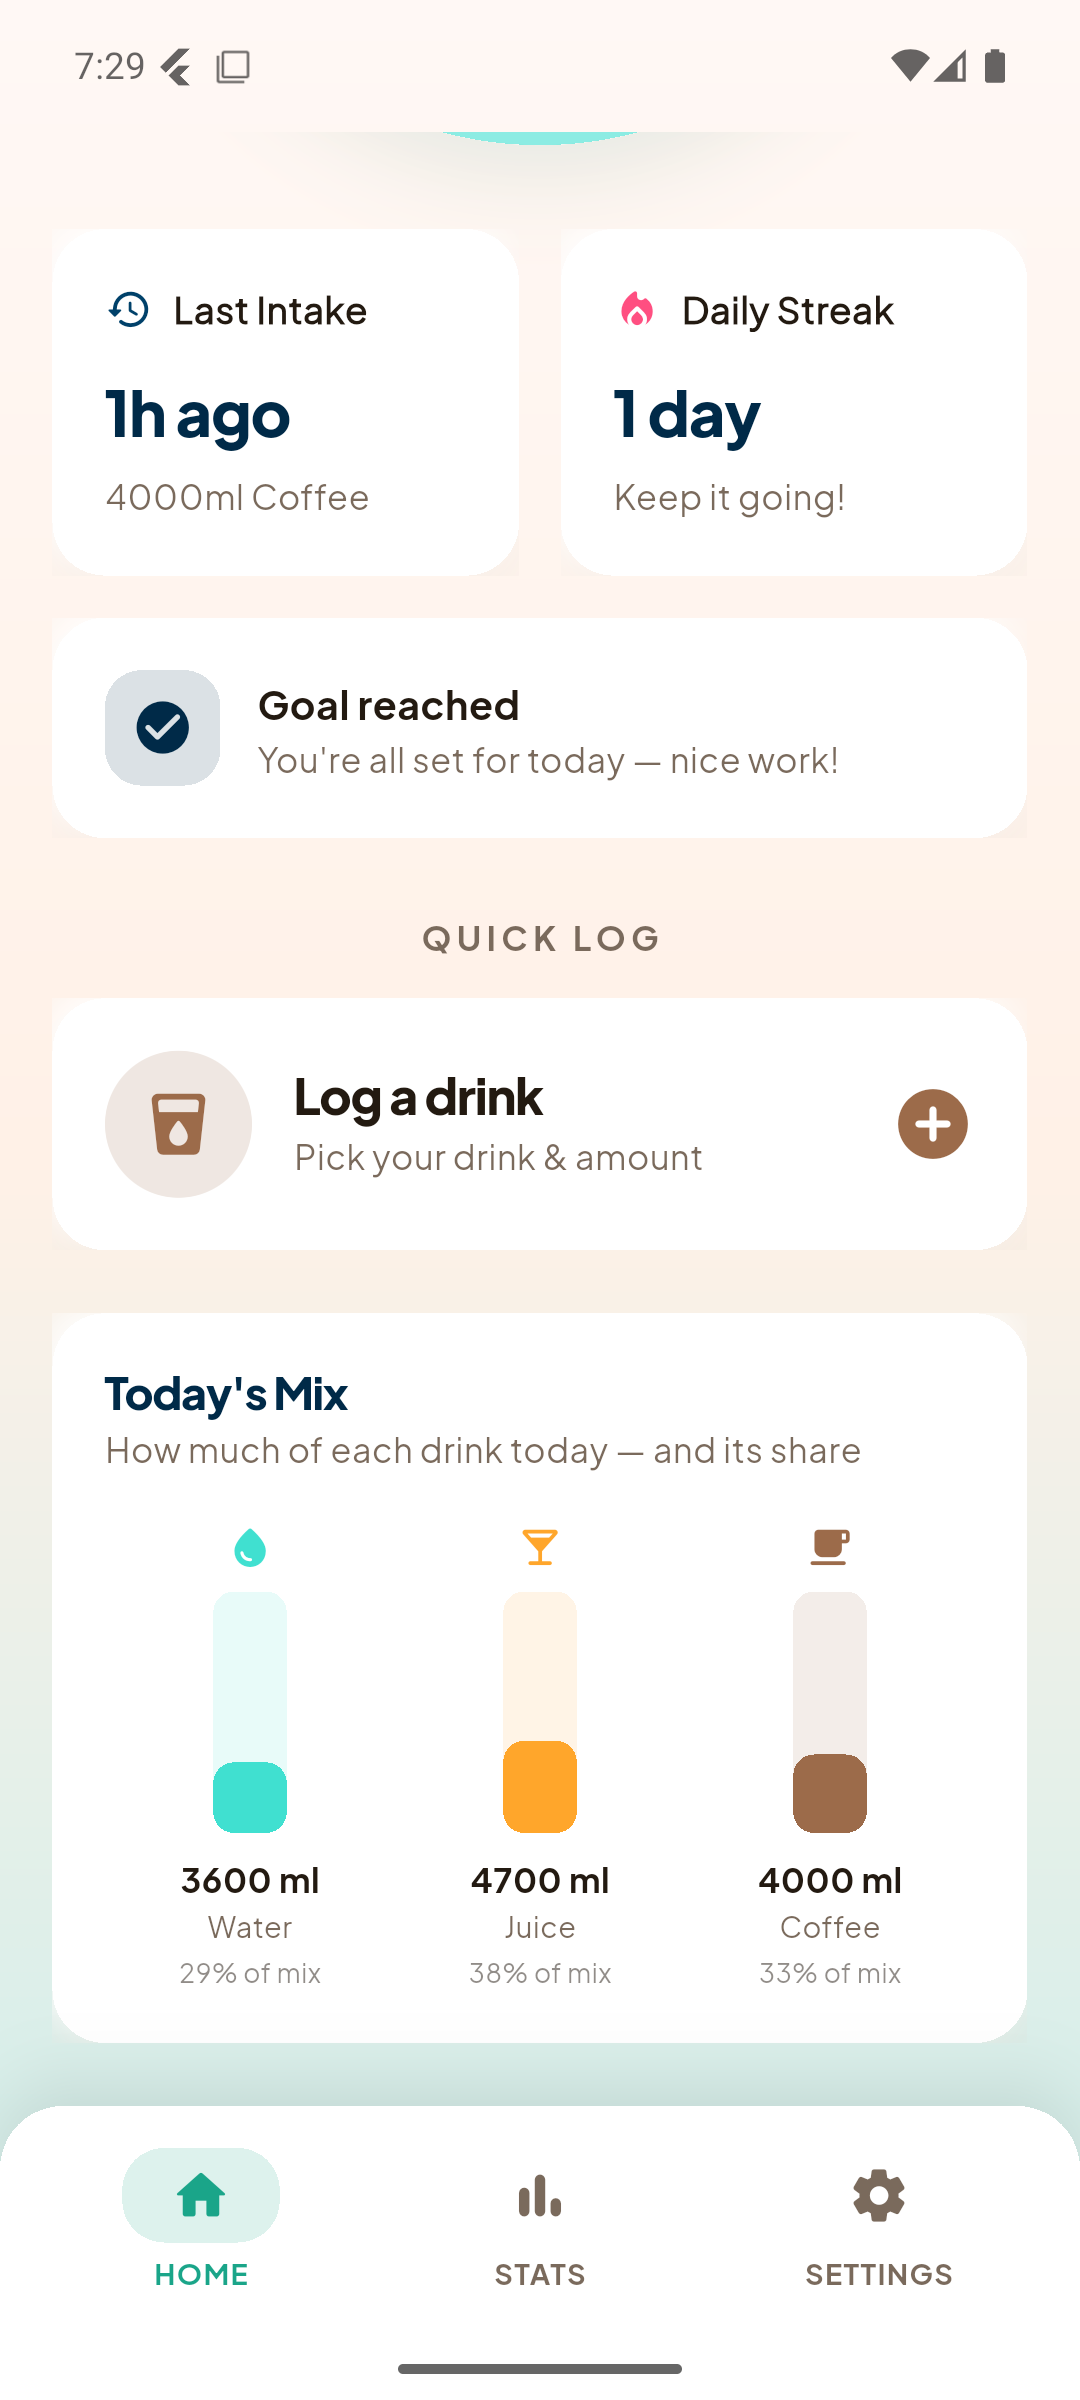
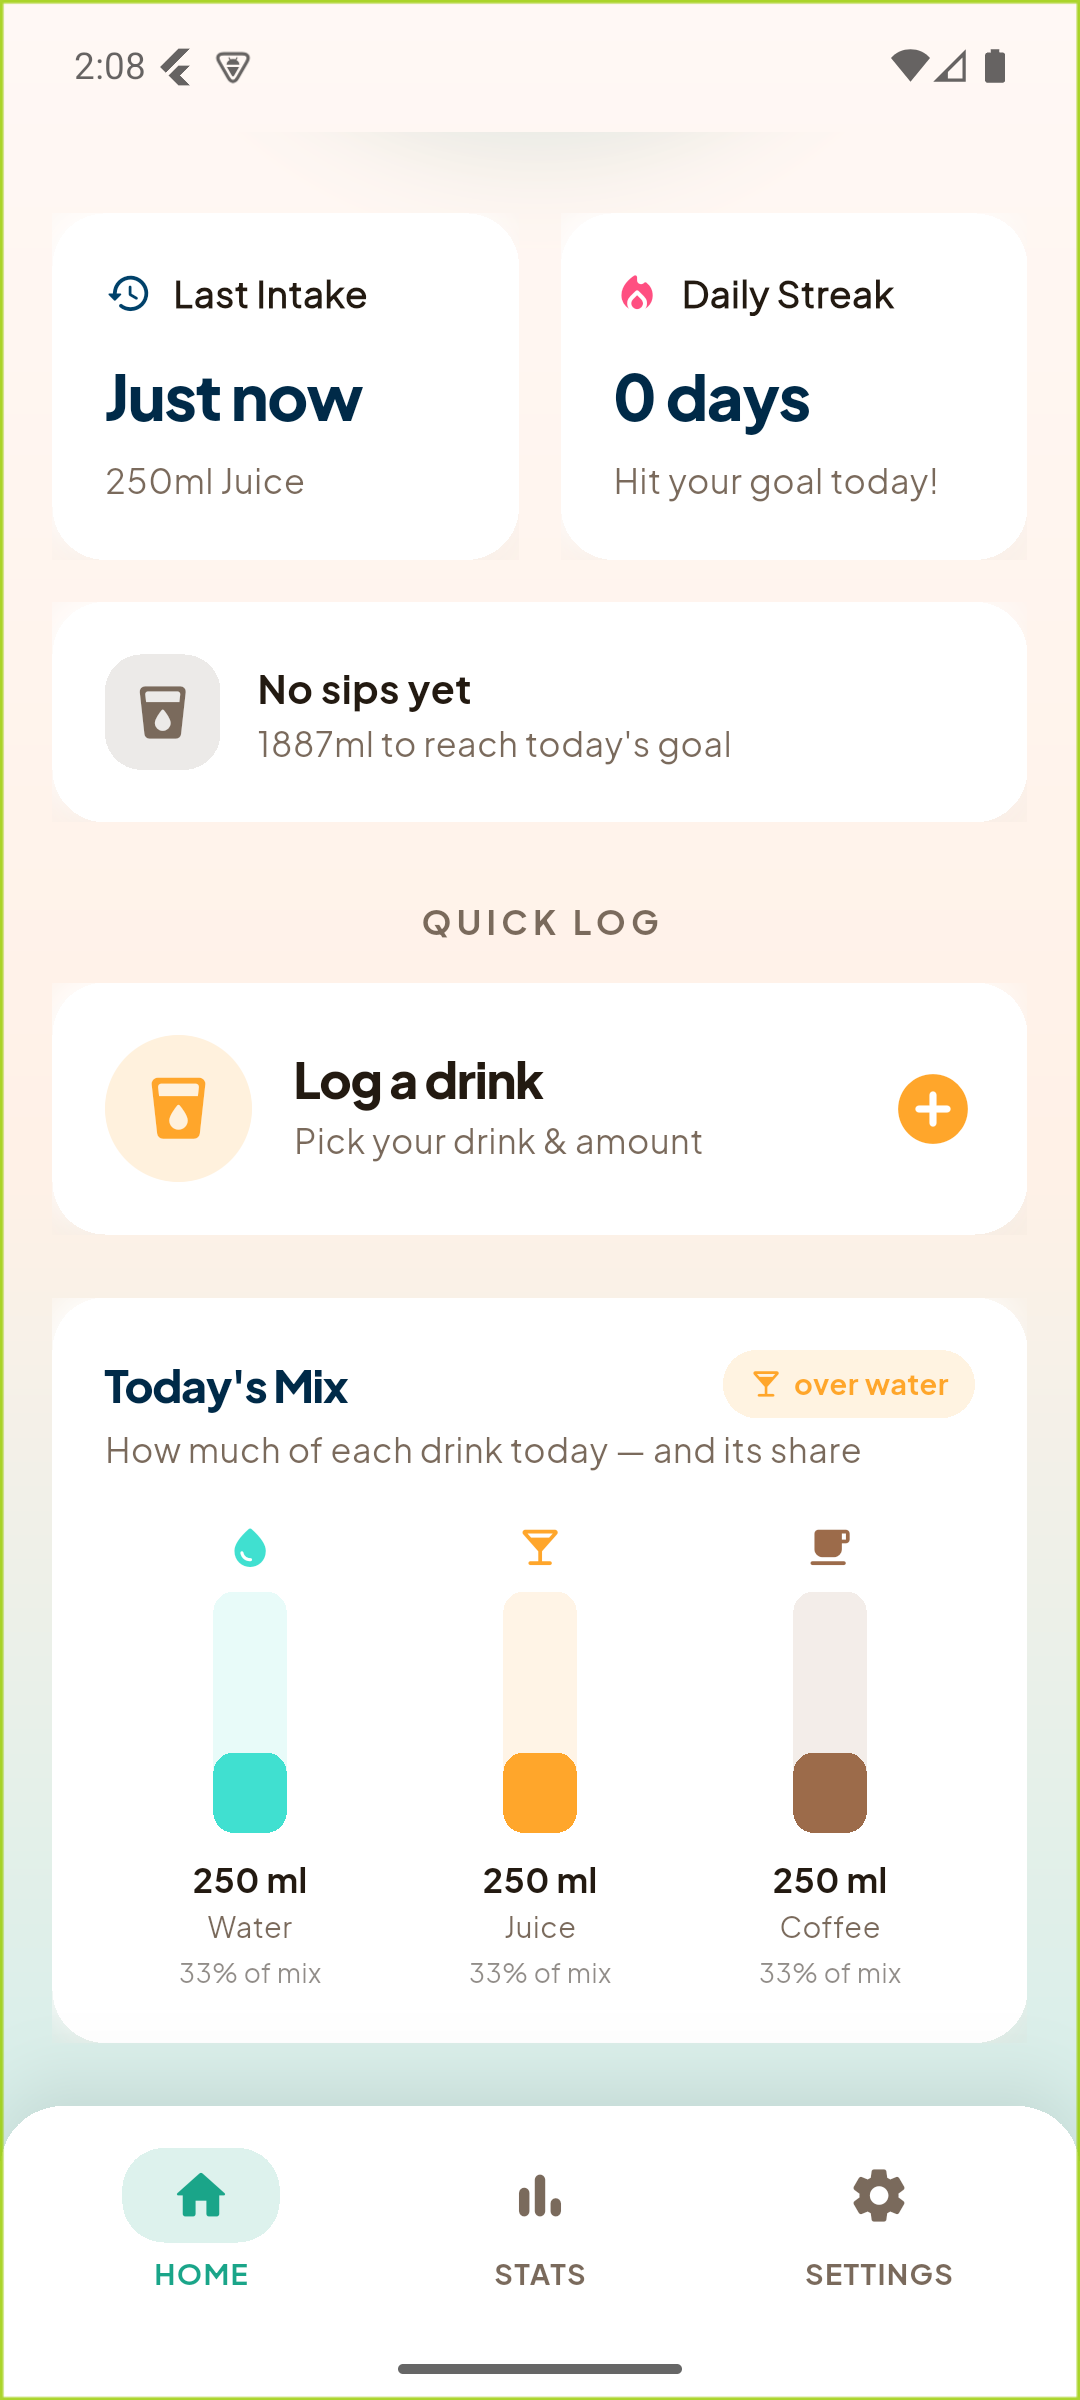
fix: show custom drinks in Today's Mix; refresh devshots
todayByType resolved entry names through the built-in-only
drinkTypeByName, so logged custom drinks folded into the Water bucket
instead of getting their own mix bar. Resolve through the full
DrinkCatalog (built-ins + custom) and pass the catalog from the
dashboard's mix card and buddy nudge.

Also refresh .devshots screenshots to the current screens and ignore
local-only docs/diagrams.

diff --git a/lib/repositories/hydration_repository.dart b/lib/repositories/hydration_repository.dart
@@ -1,12 +1,12 @@
 import 'dart:convert';
 import 'package:flutter/foundation.dart';
 import 'package:shared_preferences/shared_preferences.dart';
-import '../models/drink_type.dart';
 import '../models/water_entry.dart';
 import '../models/achievement.dart';
 import 'entry_repository.dart';
 import '../domain/entry_cache.dart';
 import '../domain/streak.dart';
+import '../domain/drink_catalog.dart';
 
 /// The hydration data store the UI talks to. Entries live in the Supabase
 /// `water_entries` table (via [EntryRepository]); the in-memory [_entries] list
@@ -184,14 +184,15 @@ class HydrationRepository {
   /// Drives the "Today's Mix" bars and the coffee-vs-water buddy nudge — both
   /// compare what was actually poured, so they use raw volume, not the
   /// hydration-weighted total.
-  Map<String, int> todayByType() {
+  Map<String, int> todayByType([DrinkCatalog catalog = const DrinkCatalog()]) {
     final today = DateTime.now();
     final byType = <String, int>{};
     for (final e in _live.where((e) => _isSameDay(e.timestamp, today))) {
-      // Resolve through the catalog so legacy/unknown type names (e.g. an old
-      // "Still Water") fold into their real drink type instead of becoming an
-      // invisible bucket that inflates the total.
-      final name = drinkTypeByName(e.type).name;
+      // Resolve through the catalog (built-ins + the user's custom drinks) so a
+      // logged custom drink keeps its own name and gets its own mix bar, while
+      // legacy/unknown type names still fold into a real drink type instead of
+      // becoming an invisible bucket that inflates the total.
+      final name = catalog.byName(e.type).name;
       byType[name] = (byType[name] ?? 0) + e.amountMl;
     }
     return byType;

diff --git a/lib/screens/dashboard_screen.dart b/lib/screens/dashboard_screen.dart
@@ -144,7 +144,7 @@ class _DashboardScreenState extends State<DashboardScreen> {
   /// See [hydrationNudgeFor].
   HydrationNudge? get _nudge {
     if (_repo.todayTotal >= _effectiveGoal) return null;
-    return hydrationNudgeFor(_repo.todayByType());
+    return hydrationNudgeFor(_repo.todayByType(_catalog));
   }
 
   /// The first two presets, surfaced as the reminder's quick-log action
@@ -428,7 +428,7 @@ class _DashboardScreenState extends State<DashboardScreen> {
               streak: streak,
               forecast: forecast,
               selectedType: _selectedType,
-              byType: _repo.todayByType(),
+              byType: _repo.todayByType(_catalog),
               nudge: _nudge,
               onLog: _logWater,
               onRefresh: _refresh,